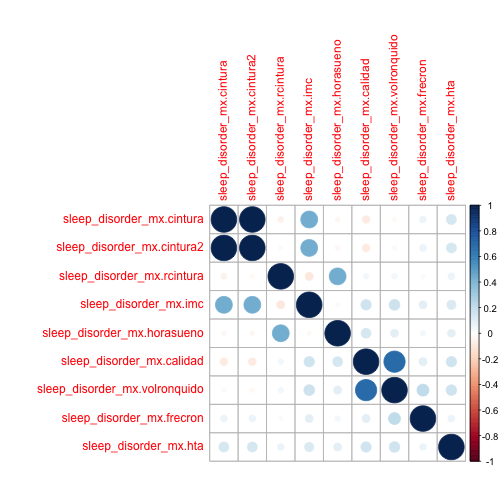
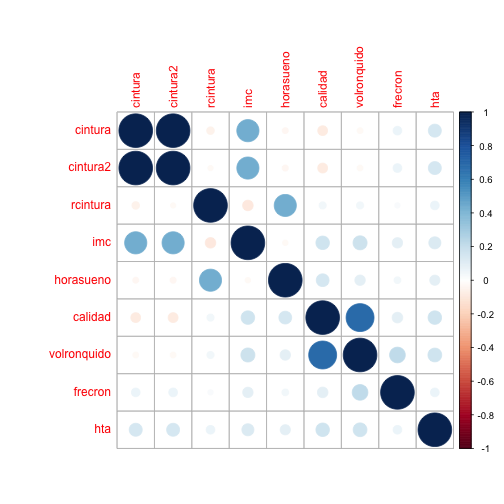
.

Changed region(s): [[0.0595, 0.0595, 1.0, 0.9226]]

diff --git a/Clase_3/Clase 3.md b/Clase_3/Clase 3.md
@@ -14649,6 +14649,8 @@ selected <- data.frame(sleep_disorder_mx$cintura, sleep_disorder_mx$cintura2, sl
 
 selected <- na.omit(selected)
 
+colnames(selected) <- c("cintura","cintura2", "rcintura", "imc", "horasueno", "calidad",
+                        "volronquido", "frecron", "hta")
 
 selected <- unique(selected)
 
@@ -14657,96 +14659,26 @@ round(selected.cor, digits = 2)
 ```
 
 ```
-                              sleep_disorder_mx.cintura
-sleep_disorder_mx.cintura                          1.00
-sleep_disorder_mx.cintura2                         1.00
-sleep_disorder_mx.rcintura                        -0.05
-sleep_disorder_mx.imc                              0.43
-sleep_disorder_mx.horasueno                       -0.03
-sleep_disorder_mx.calidad                         -0.08
-sleep_disorder_mx.volronquido                     -0.03
-sleep_disorder_mx.frecron                          0.07
-sleep_disorder_mx.hta                              0.15
-                              sleep_disorder_mx.cintura2
-sleep_disorder_mx.cintura                           1.00
-sleep_disorder_mx.cintura2                          1.00
-sleep_disorder_mx.rcintura                         -0.02
-sleep_disorder_mx.imc                               0.43
-sleep_disorder_mx.horasueno                        -0.03
-sleep_disorder_mx.calidad                          -0.09
-sleep_disorder_mx.volronquido                      -0.03
-sleep_disorder_mx.frecron                           0.07
-sleep_disorder_mx.hta                               0.15
-                              sleep_disorder_mx.rcintura
-sleep_disorder_mx.cintura                          -0.05
-sleep_disorder_mx.cintura2                         -0.02
-sleep_disorder_mx.rcintura                          1.00
-sleep_disorder_mx.imc                              -0.10
-sleep_disorder_mx.horasueno                         0.43
-sleep_disorder_mx.calidad                           0.04
-sleep_disorder_mx.volronquido                       0.05
-sleep_disorder_mx.frecron                           0.02
-sleep_disorder_mx.hta                               0.07
-                              sleep_disorder_mx.imc
-sleep_disorder_mx.cintura                      0.43
-sleep_disorder_mx.cintura2                     0.43
-sleep_disorder_mx.rcintura                    -0.10
-sleep_disorder_mx.imc                          1.00
-sleep_disorder_mx.horasueno                   -0.03
-sleep_disorder_mx.calidad                      0.16
-sleep_disorder_mx.volronquido                  0.17
-sleep_disorder_mx.frecron                      0.09
-sleep_disorder_mx.hta                          0.13
-                              sleep_disorder_mx.horasueno
-sleep_disorder_mx.cintura                           -0.03
-sleep_disorder_mx.cintura2                          -0.03
-sleep_disorder_mx.rcintura                           0.43
-sleep_disorder_mx.imc                               -0.03
-sleep_disorder_mx.horasueno                          1.00
-sleep_disorder_mx.calidad                            0.14
-sleep_disorder_mx.volronquido                        0.09
-sleep_disorder_mx.frecron                            0.04
-sleep_disorder_mx.hta                                0.09
-                              sleep_disorder_mx.calidad
-sleep_disorder_mx.cintura                         -0.08
-sleep_disorder_mx.cintura2                        -0.09
-sleep_disorder_mx.rcintura                         0.04
-sleep_disorder_mx.imc                              0.16
-sleep_disorder_mx.horasueno                        0.14
-sleep_disorder_mx.calidad                          1.00
-sleep_disorder_mx.volronquido                      0.69
-sleep_disorder_mx.frecron                          0.10
-sleep_disorder_mx.hta                              0.16
-                              sleep_disorder_mx.volronquido
-sleep_disorder_mx.cintura                             -0.03
-sleep_disorder_mx.cintura2                            -0.03
-sleep_disorder_mx.rcintura                             0.05
-sleep_disorder_mx.imc                                  0.17
-sleep_disorder_mx.horasueno                            0.09
-sleep_disorder_mx.calidad                              0.69
-sleep_disorder_mx.volronquido                          1.00
-sleep_disorder_mx.frecron                              0.22
-sleep_disorder_mx.hta                                  0.17
-                              sleep_disorder_mx.frecron
-sleep_disorder_mx.cintura                          0.07
-sleep_disorder_mx.cintura2                         0.07
-sleep_disorder_mx.rcintura                         0.02
-sleep_disorder_mx.imc                              0.09
-sleep_disorder_mx.horasueno                        0.04
-sleep_disorder_mx.calidad                          0.10
-sleep_disorder_mx.volronquido                      0.22
-sleep_disorder_mx.frecron                          1.00
-sleep_disorder_mx.hta                              0.07
-                              sleep_disorder_mx.hta
-sleep_disorder_mx.cintura                      0.15
-sleep_disorder_mx.cintura2                     0.15
-sleep_disorder_mx.rcintura                     0.07
-sleep_disorder_mx.imc                          0.13
-sleep_disorder_mx.horasueno                    0.09
-sleep_disorder_mx.calidad                      0.16
-sleep_disorder_mx.volronquido                  0.17
-sleep_disorder_mx.frecron                      0.07
-sleep_disorder_mx.hta                          1.00
+            cintura cintura2 rcintura   imc horasueno calidad volronquido
+cintura        1.00     1.00    -0.05  0.43     -0.03   -0.08       -0.03
+cintura2       1.00     1.00    -0.02  0.43     -0.03   -0.09       -0.03
+rcintura      -0.05    -0.02     1.00 -0.10      0.43    0.04        0.05
+imc            0.43     0.43    -0.10  1.00     -0.03    0.16        0.17
+horasueno     -0.03    -0.03     0.43 -0.03      1.00    0.14        0.09
+calidad       -0.08    -0.09     0.04  0.16      0.14    1.00        0.69
+volronquido   -0.03    -0.03     0.05  0.17      0.09    0.69        1.00
+frecron        0.07     0.07     0.02  0.09      0.04    0.10        0.22
+hta            0.15     0.15     0.07  0.13      0.09    0.16        0.17
+            frecron  hta
+cintura        0.07 0.15
+cintura2       0.07 0.15
+rcintura       0.02 0.07
+imc            0.09 0.13
+horasueno      0.04 0.09
+calidad        0.10 0.16
+volronquido    0.22 0.17
+frecron        1.00 0.07
+hta            0.07 1.00
 ```
 
 ========================================================
